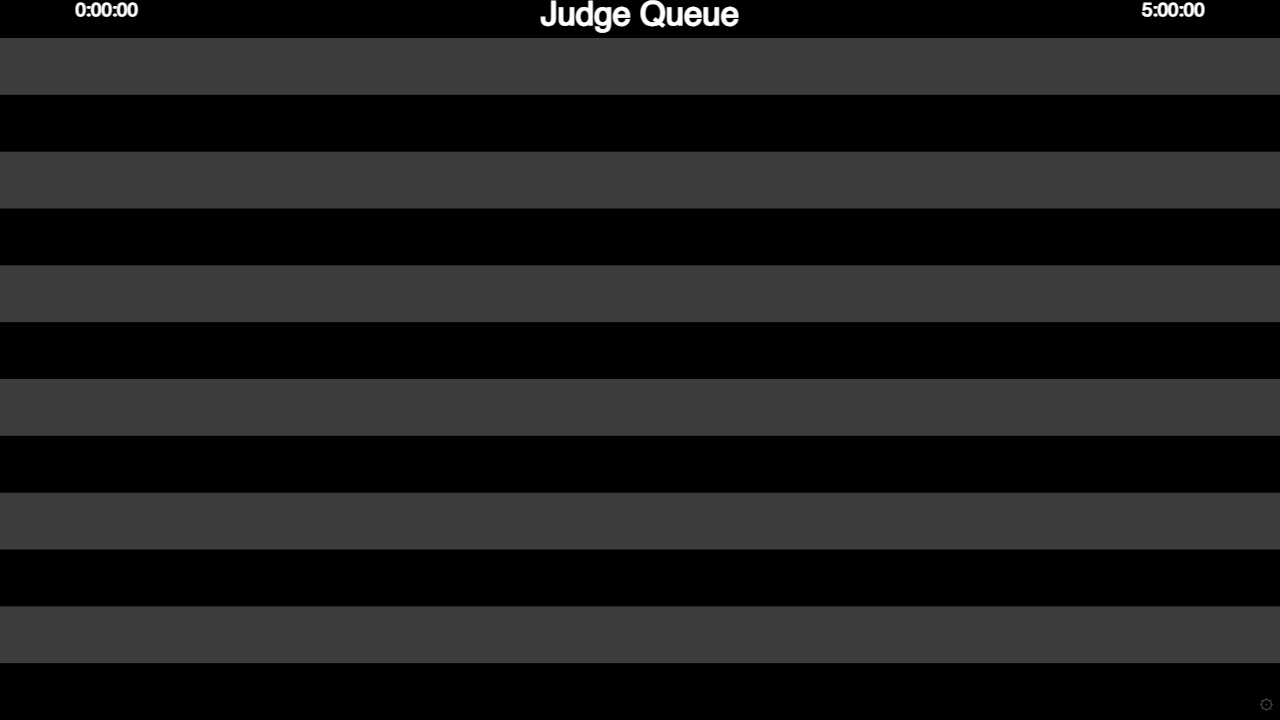
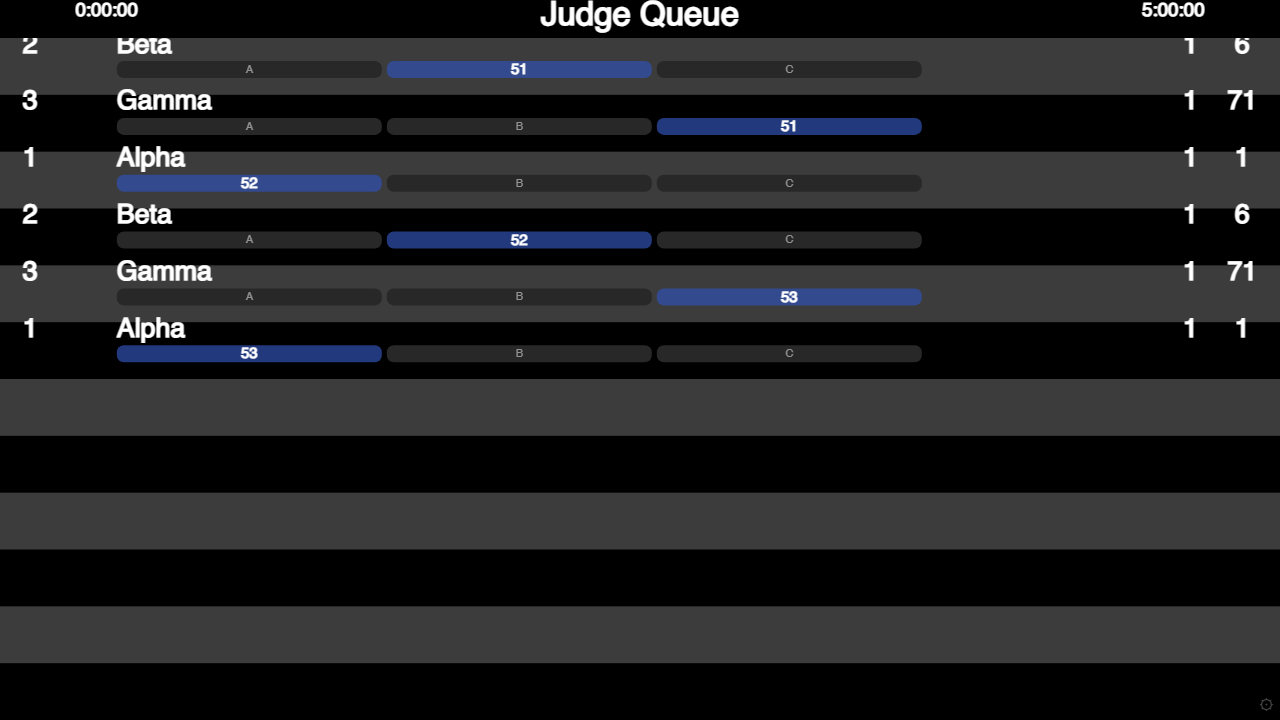
fix: 判题队列动画默认开启（&anim=0 退回静态）；模拟器真实载荷+串行判题

diff --git a/src/app.js b/src/app.js
@@ -306,8 +306,8 @@ function renderJudge(pane) {
   const times = { elapsedText: fmtClock(t.elapsed, true), remainText: fmtClock(t.remain, true) };
   const frozen = !!(M.state && M.state.isFrozen());
 
-  // 夹具里所有提交都已判完，走动画会当场滑出（Java 也是这样），所以默认静态铺排
-  if (Q.get('anim') !== '1') {
+  // 动画默认开启；&anim=0 退回静态铺排（用于截图/静态夹具）
+  if (Q.get('anim') === '0') {
     const seeded = seedRows(M, data);
     drawJudgeFrame(ctx, L, seeded.rows, seeded.probs, times, { frozen });
     return;
